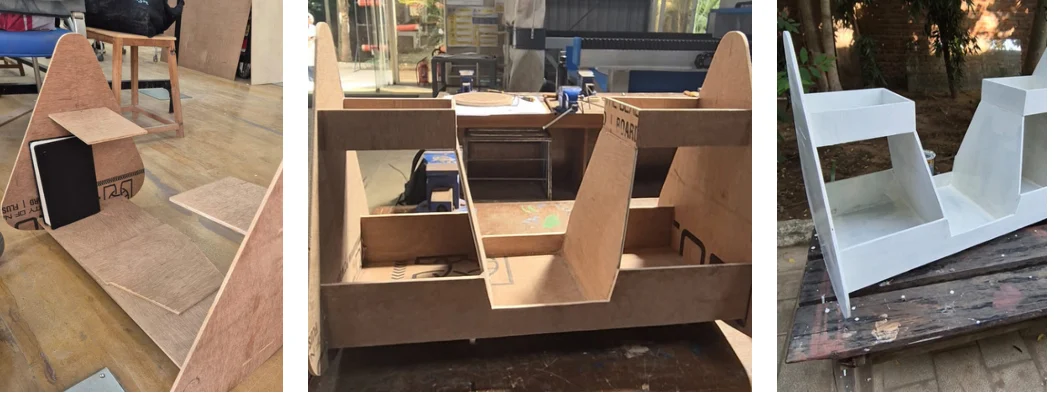
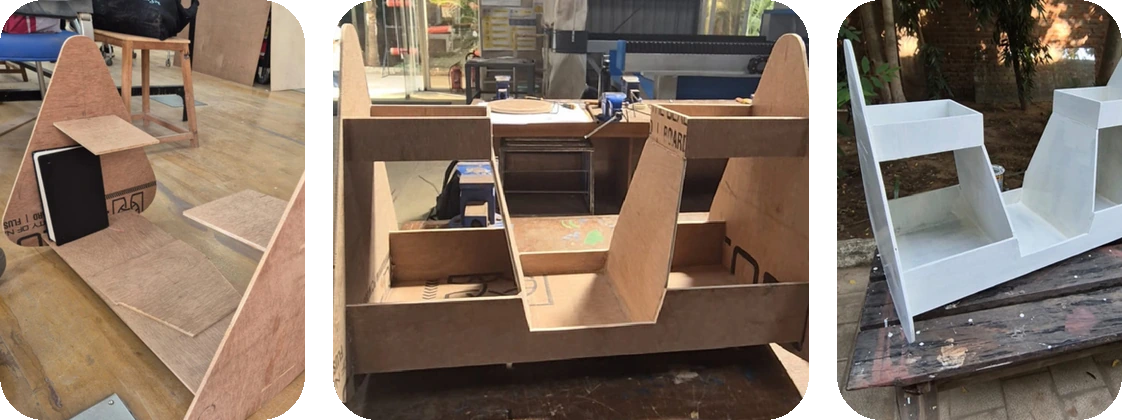
Changed css(1)

diff --git a/src/styles.css b/src/styles.css
@@ -271,3 +271,14 @@ figure.mask{overflow:hidden}figure.mask img{width:100%;height:100%;object-fit:co
 .ex-title em{font-weight:500;font-style:italic;color:#6B3F2E}
 
 .ex-rule{margin-bottom:1.1em}
+
+
+/* Living room drawings: remove the white box */
+.lv-frame{background:transparent;padding:0}
+.lv-frame img{mix-blend-mode:multiply}
+
+
+
+/* Library strips: natural proportions, no extra frame */
+.lp-side figure,.lp-spec figure{aspect-ratio:auto!important;border-radius:0;background:transparent}
+.lp-side figure img,.lp-spec figure img{height:auto;object-fit:contain}
